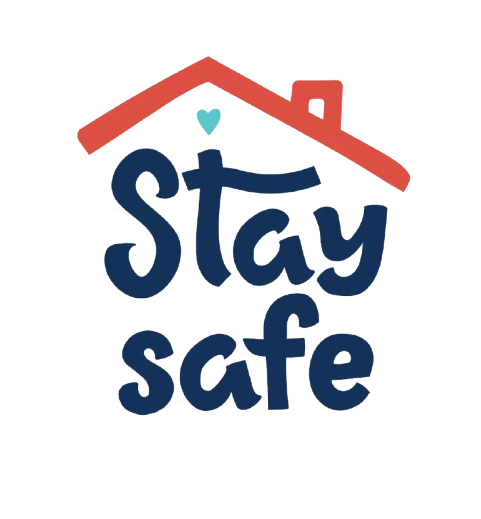
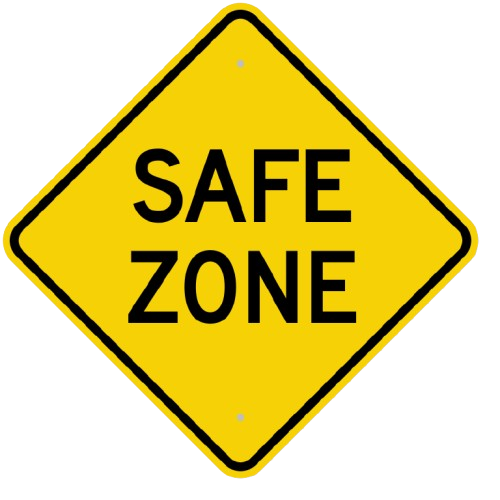
splash assets

diff --git a/lib/screens/splash_screen.dart b/lib/screens/splash_screen.dart
@@ -39,8 +39,7 @@ class _SplashScreenState extends State<SplashScreen> {
   @override
   Widget build(BuildContext context) {
     return Scaffold(
-      backgroundColor:
-          const Color.fromARGB(255, 1, 133, 29),
+      backgroundColor: const Color.fromARGB(255, 1, 133, 29),
       body: Stack(
         children: [
           Positioned(
@@ -76,8 +75,7 @@ class _SplashScreenState extends State<SplashScreen> {
               padding: const EdgeInsets.all(24),
               decoration: BoxDecoration(
                 color: Colors.white,
-                borderRadius:
-                    BorderRadius.circular(28),
+                borderRadius: BorderRadius.circular(28),
                 boxShadow: const [
                   BoxShadow(
                     color: Colors.black26,
@@ -94,7 +92,8 @@ class _SplashScreenState extends State<SplashScreen> {
                     height: 80,
                     width: 80,
                     decoration: BoxDecoration(
-                      color: const Color.fromARGB(255, 252, 252, 251).withOpacity(0.1),
+                      color: const Color.fromARGB(255, 252, 252, 251)
+                          .withOpacity(0.1),
                       borderRadius: BorderRadius.circular(20),
                     ),
                     child: ClipRRect(
@@ -157,12 +156,13 @@ class _SplashScreenState extends State<SplashScreen> {
                             children: [
                               // Image for each statement with error handling
                               Container(
-                                height: 100,
-                                width: 130,
+                                height: 50,
+                                width: 80,
                                 decoration: BoxDecoration(
                                   borderRadius: BorderRadius.circular(10),
                                   color:
-                                      const Color.fromARGB(255, 243, 243, 243).withOpacity(0.1),
+                                      const Color.fromARGB(255, 243, 243, 243)
+                                          .withOpacity(0.1),
                                 ),
                                 child: Image.asset(
                                   item.imagePath,
@@ -170,7 +170,7 @@ class _SplashScreenState extends State<SplashScreen> {
                                   errorBuilder: (context, error, stackTrace) {
                                     return Icon(
                                       item.icon,
-                                      size: 50,
+                                      size: 30,
                                       color: const Color(0xFFF6B400),
                                     );
                                   },
@@ -248,7 +248,8 @@ class _SplashScreenState extends State<SplashScreen> {
                         color: const Color.fromARGB(255, 246, 111, 0),
                         boxShadow: [
                           BoxShadow(
-                            color: const Color.fromARGB(255, 246, 98, 0).withOpacity(0.4),
+                            color: const Color.fromARGB(255, 246, 98, 0)
+                                .withOpacity(0.4),
                             blurRadius: 10,
                             offset: const Offset(0, 4),
                           ),